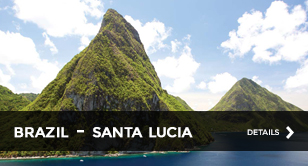
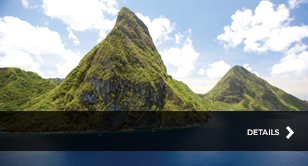
Convert item preview from image to CSS.

diff --git a/dist/css/styles.css b/dist/css/styles.css
@@ -208,6 +208,30 @@ a.signature:focus {
 
 /* End footer */
 
+/* Begin item preview */
+
+.item-preview-name { 
+	position: absolute;
+	top: 116px;
+	left: 13px;
+	width: 100%;
+	margin: 0px;
+	color: white;
+	font: 18px 'Montserrat', Arial, sans-serif;
+	font-weight: 600;
+	font-variant: small-caps;
+	letter-spacing: 0px;
+	width: 233px;
+	display: inline-block;
+  padding: 0;
+}
+
+.item-preview-name span a:hover {
+	text-decoration: none;
+}
+
+/* End item preview */
+
 /* Begin jumbotron */
 
 .jumbotron {
@@ -221,9 +245,6 @@ a.signature:focus {
 	left: 0;
 	width: 100%;
 	margin: 0px;
-}
-
-.jumbotron-tagline {
 	color: white;
 	font: 45px 'Montserrat', Arial, sans-serif;
 	font-weight: 500;
@@ -709,6 +730,7 @@ ul > ul > li {
 }
 
 /* Begin modal */
+
 div.modal {
   border-radius: 0px;
   width: 940px;

diff --git a/site/css/styles.css b/site/css/styles.css
@@ -208,6 +208,30 @@ a.signature:focus {
 
 /* End footer */
 
+/* Begin item preview */
+
+.item-preview-name { 
+	position: absolute;
+	top: 116px;
+	left: 13px;
+	width: 100%;
+	margin: 0px;
+	color: white;
+	font: 18px 'Montserrat', Arial, sans-serif;
+	font-weight: 600;
+	font-variant: small-caps;
+	letter-spacing: 0px;
+	width: 233px;
+	display: inline-block;
+  padding: 0;
+}
+
+.item-preview-name span a:hover {
+	text-decoration: none;
+}
+
+/* End item preview */
+
 /* Begin jumbotron */
 
 .jumbotron {
@@ -221,9 +245,6 @@ a.signature:focus {
 	left: 0;
 	width: 100%;
 	margin: 0px;
-}
-
-.jumbotron-tagline {
 	color: white;
 	font: 45px 'Montserrat', Arial, sans-serif;
 	font-weight: 500;
@@ -709,6 +730,7 @@ ul > ul > li {
 }
 
 /* Begin modal */
+
 div.modal {
   border-radius: 0px;
   width: 940px;

diff --git a/dist/templates/shop.category.html b/dist/templates/shop.category.html
@@ -1,6 +1,11 @@
 {{ $stateParam }}
 <div ng-repeat="coffee in coffees" class="span4 coffee-list">
-  <a ng-href="#/shop/{{ category }}/coffee/{{ coffee.id }}"><img class="selections-image" ng-src="{{ coffee | previewImage }}"></a>
+  <div class="jumbotron">
+		<a href="#/shop">
+      <span class="item-preview-name"><span>{{ coffee.short_name }}</span></h2>
+    </a>
+    <a ng-href="#/shop/{{ category }}/coffee/{{ coffee.id }}"><img class="selections-image" ng-src="{{ coffee | previewImage }}"></a>
+  </div>
   <div class="selections-divider"></div>
   <div>
     <span class="coffee-list-order-text">

diff --git a/site/templates/shop.category.html b/site/templates/shop.category.html
@@ -1,6 +1,11 @@
 {{ $stateParam }}
 <div ng-repeat="coffee in coffees" class="span4 coffee-list">
-  <a ng-href="#/shop/{{ category }}/coffee/{{ coffee.id }}"><img class="selections-image" ng-src="{{ coffee | previewImage }}"></a>
+  <div class="jumbotron">
+		<a href="#/shop">
+      <span class="item-preview-name"><span>{{ coffee.short_name }}</span></h2>
+    </a>
+    <a ng-href="#/shop/{{ category }}/coffee/{{ coffee.id }}"><img class="selections-image" ng-src="{{ coffee | previewImage }}"></a>
+  </div>
   <div class="selections-divider"></div>
   <div>
     <span class="coffee-list-order-text">
